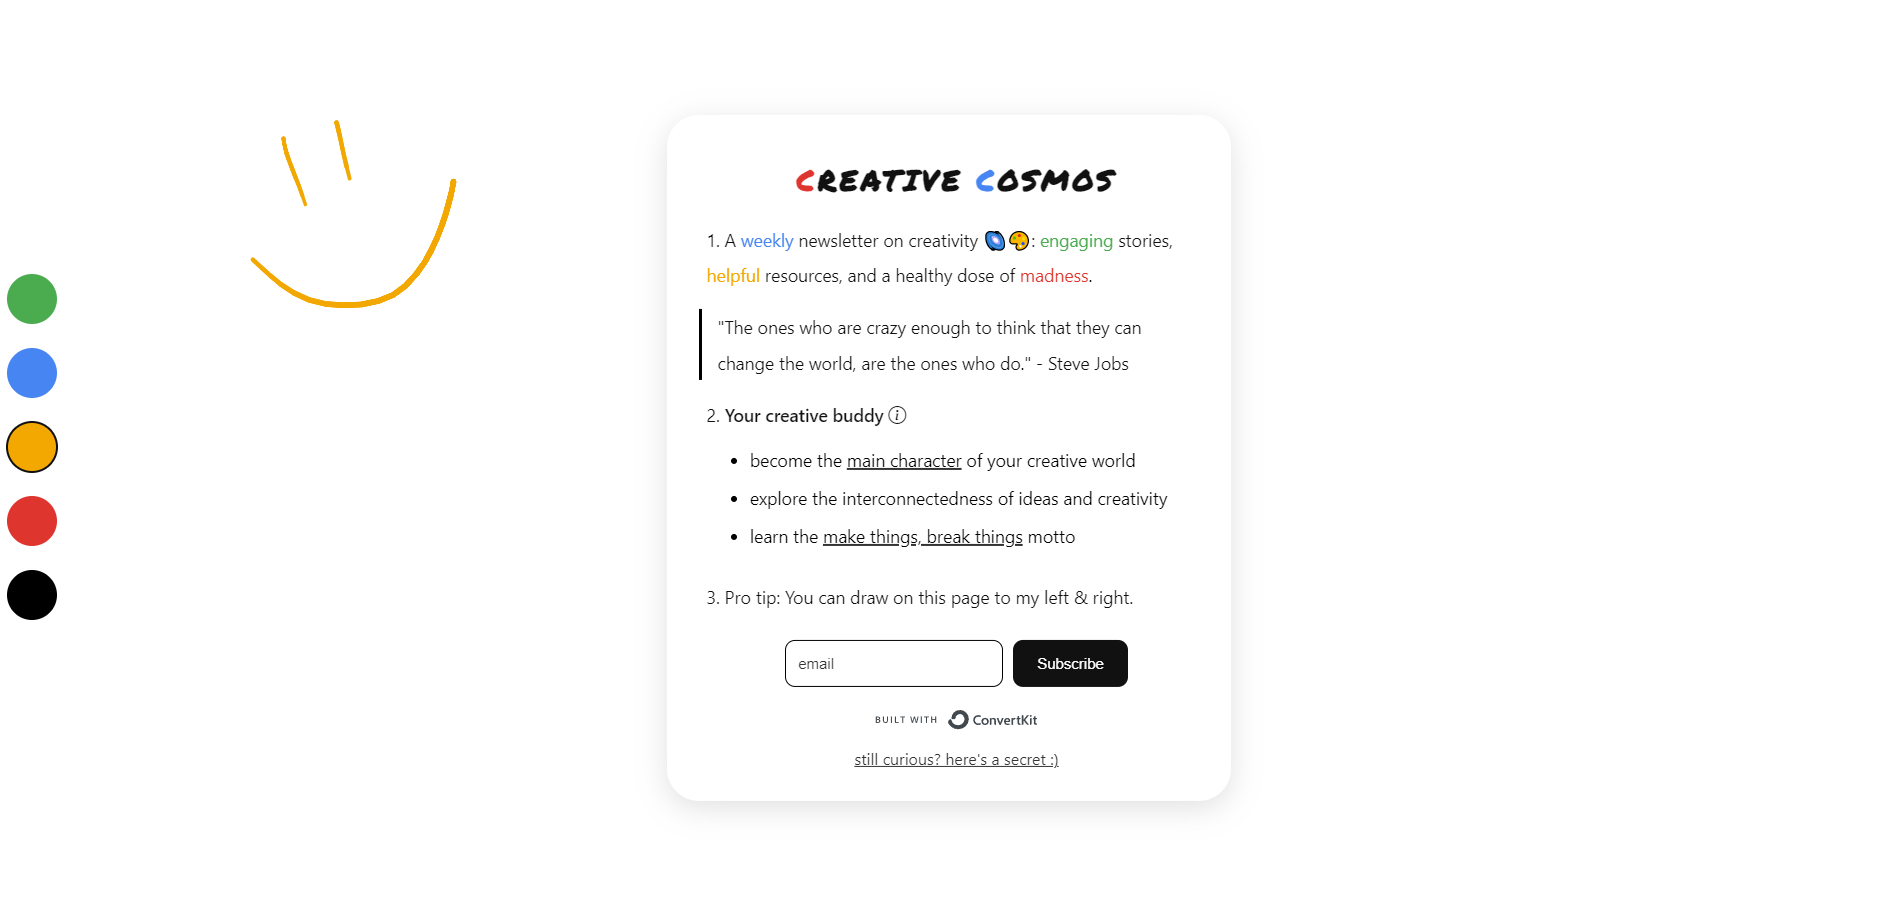
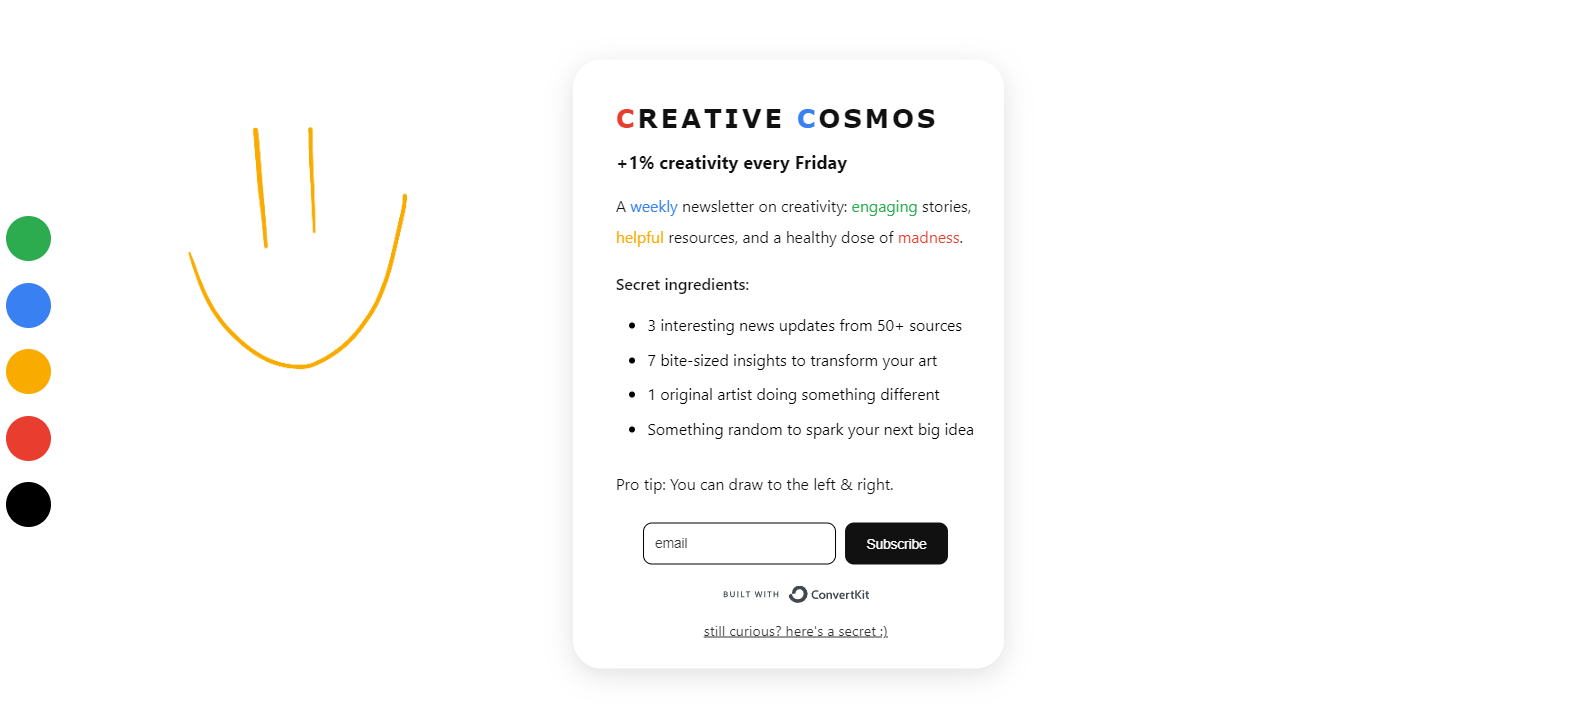
Writing sample update

diff --git a/writingsamples.html b/writingsamples.html
@@ -73,8 +73,8 @@
             <a href="https://medium.com/@matthew_michael">Medium page.</a>
           </p>
           <p>
-            My most recent work was published by DevGenius, a publication with
-            over 10k followers. It was also curated by Medium, meaning the
+            My highest viewed piece was published by DevGenius, a publication
+            with over 10k followers. It was also curated by Medium, meaning the
             editors at the site found the piece of considerable quality and
             promoted it throughout their site and newsletter.
           </p>
@@ -83,7 +83,7 @@
             challenge myself through extensive research, as shown by my
             <a
               href="https://medium.com/@matthew_michael/societal-suicide-loneliness-social-media-and-the-great-mental-health-crisis-bd779c9c06bc"
-              >article on mental health & social media</a
+              >article on the modern day mental health crisis</a
             >.
           </p>
         </section>
@@ -105,8 +105,8 @@
         <h3>Case Studies</h3>
         <p>
           Let me take you through a journey. We'll start with a critique of my
-          first project before I studied ux writing and discovered the
-          importance of making every word matter.
+          first project before I studied ux and technical writing and discovered
+          the importance of making every word matter.
         </p>
         <h2 id="simplechartsri">SimpleChartsRI (3 before/after comparisons)</h2>
 
@@ -181,9 +181,10 @@
         </ul>
 
         <p>
-          This section doesn't need to be super thorough like some technical
+          This section doesn't need to be thorough like some technical
           documentation for a specific method call. If our tool's main
-          functionality saves the user's time, so should its documentation.
+          functionality saves the user's time, so should its documentation so
+          long as it maintains its precision.
         </p>
 
         <h4 id="scriHelp2">Help Documentation - Formatting section</h4>
@@ -207,7 +208,7 @@
           src="resources/facebookerror.png"
         />
         <p>
-          Ok, dad. Can an error message sound any more formal? The project was
+          Ok, Dad. Can an error message sound any more formal? The project was
           not called ZuckSucks, but the message was the same. Even the error
           icon in the input box didn't specify the problem.
         </p>
@@ -219,7 +220,7 @@
         <p>It turned out my name was taken.</p>
         <p>A simple <b>"Username taken."</b> would have done just fine.</p>
         <hr />
-        <h4>Blog post on UX Writing</h4>
+        <h4>Blog post on UX Writing (Mailchimp)</h4>
 
         <img
           style="margin-top: 1rem !important; max-width: 513px"

diff --git a/mtbt.html b/mtbt.html
@@ -42,13 +42,13 @@
 
     <section class="project-header">
       <h1 class="project-title animated fadeIn">Creative Cosmos</h1>
-      <h2 class="animated fadeIn">Your creative buddy in newsletter form.</h2>
+      <h2 class="animated fadeIn">+1% creativity every newsletter</h2>
     </section>
 
     <section class="images animated slideInLeft" style="background-color: #000">
       <img
         style="max-width: 1801px !important; max-height: 916px !important"
-        src="resources/mtbt-landing.png"
+        src="resources/creativecosmoslanding.png"
       />
     </section>
 
@@ -97,22 +97,12 @@
       </p>
       <img
         src="resources/mtbt-shh.png"
-        style="max-width: 737px !important; max-height: 890px !important"
+        style="max-width: 568px !important; max-height: 1052px !important"
       />
+
       <p>
-        The newsletters (designed around competitive analysis findings from
-        around 10 other newsletters I enjoyed) are going to provide users with
-        the following every week (in general terms):
-      </p>
-      <ul class="list-display list-checkmarks">
-        <li>Updates about new art happenings.</li>
-        <li>Curated resources & personal thoughts on the topic of the week.</li>
-        <li>A random batch of content that aims to inspire.</li>
-      </ul>
-      <p>
-        <b>Overall it's designed to be like a buddy who gives you a nudge</b>
-        towards creating that thing you've always wanted to share with the
-        world.
+        Overall the newsletter is designed to be like a buddy who updates and
+        inspires you.
       </p>
       <p>
         I think there's too much of a gap between people who think about making

diff --git a/index.html b/index.html
@@ -156,8 +156,11 @@
           <h1>Current Projects</h1>
           <h2>Creative Cosmos</h2>
 
-          <p>Your creative buddy in newsletter form.</p>
-          <p>+1% creativity every newsletter.</p>
+          <p>
+            Your creative buddy in newsletter form. +1% creativity every
+            newsletter.
+          </p>
+
           <a href="mtbt.html" style="margin-top: 2%" id="project-mtbt-btn"
             >Learn More</a
           >
